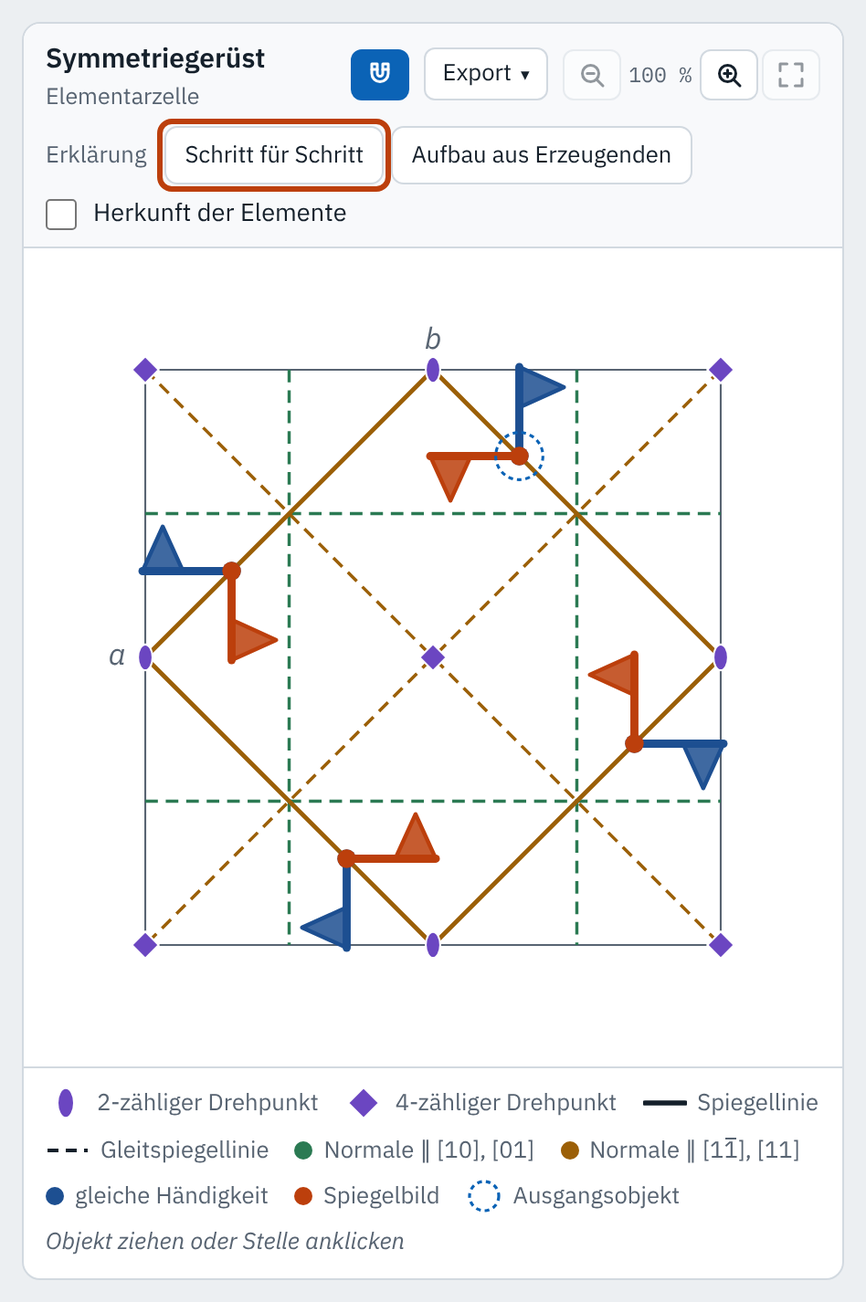
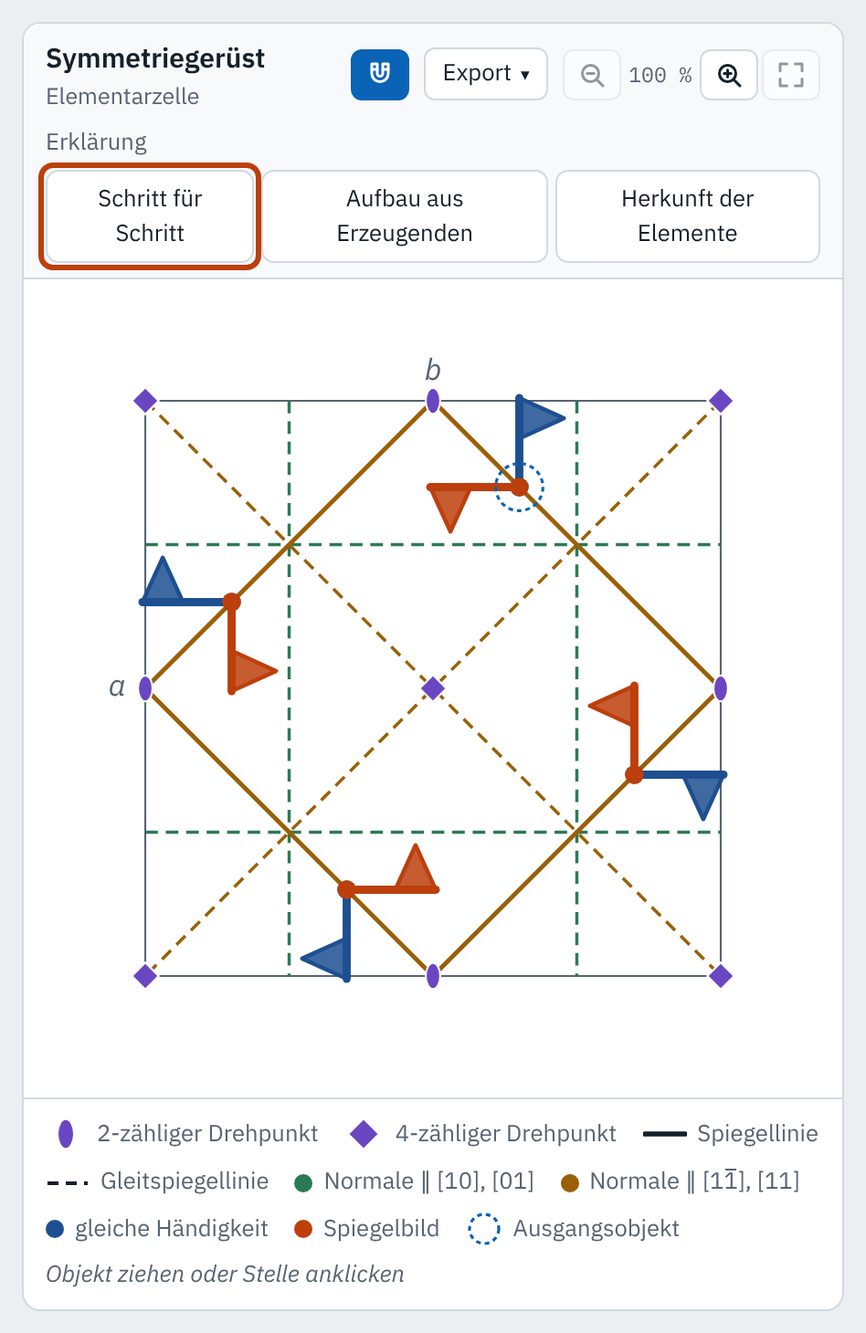
„Herkunft der Elemente“ als dritte Erklärung, immer nur eine aktiv
Drei Knöpfe im Kopf von Tafel A statt Auswahl plus Schalter (Thomas,
13.11.2026). Bei „Herkunft“ zeigt die Leiste Hinweis bzw. Element,
Abspielen und ×. Link/Speicher: zwei oder drei Erklärungen zusammen
oder erkl ohne herkunft ergeben den Startwert.

Claude-Session: https://claude.ai/code/session_01L8SY96VTcRYuEB7LDLyNSV

diff --git a/js/main.js b/js/main.js
@@ -166,9 +166,9 @@ const herkunftAktiv = () => z.herkunft && z.elemente;
 /** Grund, wenn Füllen und Zoom ruhen (erklaerend in zeichnung.js). */
 const SOLANGE_ERKLAERT = 'solange „Schritt für Schritt“, der Aufbau oder „Herkunft der Elemente“ aktiv ist';
 /**
- * Erklärungen in Tafel A (#162, Leitfaden Abschn. 5.1): Auswahl „Schritt für Schritt“ oder „Aufbau aus Erzeugenden“ und
- * der Schalter „Herkunft der Elemente“ im Kopf, die Leiste zum Durchschalten unter der Zeichnung. Eine gewählte Erklärung,
- * die gerade nicht wirken kann, bleibt gewählt und ruht; die Leiste nennt den Grund (Leitfaden Abschn. 5.2).
+ * Erklärungen in Tafel A (#162, Leitfaden Abschn. 5.1): Auswahl „Schritt für Schritt“, „Aufbau aus Erzeugenden“ oder
+ * „Herkunft der Elemente“ im Kopf, höchstens eine (Thomas, 13.11.2026), die Leiste unter der Zeichnung. Eine gewählte
+ * Erklärung, die gerade nicht wirken kann, bleibt gewählt und ruht; die Leiste nennt den Grund (Leitfaden Abschn. 5.2).
  */
 function erklaerungAbgleichen() {
   const g = gruppeVon(z.gruppe);
@@ -176,39 +176,47 @@ function erklaerungAbgleichen() {
   if (z.aufbau > maxS) z.aufbau = maxS;
   const nSchritte = g.ordnung + 1; // N Operationen der ITA-Liste, dann die Gittertranslationen
   if (z.schritt > nSchritte) z.schritt = nSchritte;
-  // „Herkunft der Elemente“ (eingeschaltet oder mit gezeigtem Element) überdeckt „Schritt für Schritt“ (schrittWirkt)
-  const schrittRuht = herkunftAktiv() || !!z.erkl;
-  const schrittGrund = !z.objekt ? 'nur mit „Objekt in allgemeiner Lage“'
-    : schrittRuht ? (herkunftAktiv() ? 'ruht, solange „Herkunft der Elemente“ eingeschaltet ist' : 'ruht, solange die Herkunft eines Elements gezeigt wird') : '';
+  const schrittGrund = !z.objekt ? 'nur mit „Objekt in allgemeiner Lage“' : '';
   const aufbauGrund = !z.elemente ? 'nur mit „Symmetrieelemente“' : maxS === 0 ? 'p1 hat ausser den Translationen keine Symmetrieelemente' : '';
-  const ks = knopf('erkl-schritt'); const ka = knopf('erkl-aufbau');
+  const herkunftGrund = !z.elemente ? 'nur mit „Symmetrieelemente“' : '';
+  const ks = knopf('erkl-schritt'); const ka = knopf('erkl-aufbau'); const kh = knopf('erkl-herkunft');
   ks.setAttribute('aria-pressed', String(z.schritt > 0));
   ka.setAttribute('aria-pressed', String(z.aufbau > 0));
+  kh.setAttribute('aria-pressed', String(z.herkunft));
   // gesperrt, solange nicht wählbar; eine gewählte bleibt frei, damit man sie abwählen kann
   ks.disabled = !z.objekt && z.schritt === 0;
   ka.disabled = aufbauGrund !== '' && z.aufbau === 0;
-  eingabe('opt-herkunft').checked = z.herkunft;
-  eingabe('opt-herkunft').disabled = !z.elemente;
+  kh.disabled = herkunftGrund !== '' && !z.herkunft;
   // Leiste: Stand der gewählten Erklärung oder der Grund, warum sie ruht
   const leiste = $('erkl-leiste');
-  const aktiv = z.modus === 'eg' && (z.schritt > 0 || z.aufbau > 0);
+  const aktiv = z.modus === 'eg' && (z.schritt > 0 || z.aufbau > 0 || z.herkunft);
   leiste.hidden = !aktiv;
   if (!aktiv) return;
   const istSchritt = z.schritt > 0;
-  const grund = istSchritt ? schrittGrund : aufbauGrund;
+  const istHerkunft = z.herkunft;
+  const grund = istHerkunft ? herkunftGrund : istSchritt ? schrittGrund : aufbauGrund;
+  const name = istHerkunft ? 'Herkunft der Elemente' : istSchritt ? 'Schritt für Schritt' : 'Aufbau aus Erzeugenden';
+  // „Herkunft der Elemente“: Hinweis bzw. das gewählte Element, Abspielen wiederholt seinen Ablauf (Wahl Thomas)
+  knopf('erkl-zurueck').hidden = istHerkunft;
+  knopf('erkl-vor').hidden = istHerkunft;
+  knopf('erkl-abspielen').hidden = !istSchritt && !istHerkunft;
   let stand;
-  if (grund) stand = `${istSchritt ? 'Schritt für Schritt' : 'Aufbau aus Erzeugenden'}: ${grund}`;
-  else if (istSchritt) {
+  if (grund) stand = `${name}: ${grund}`;
+  else if (istHerkunft) {
+    const e = z.erkl ? herkunft(g).elemente.get(z.erkl) : undefined;
+    stand = e ? `Herkunft: ${elementName(e.element)}`
+      : '<span class="only-fine">Element anklicken: woher es kommt</span><span class="only-coarse">Element antippen: woher es kommt</span>';
+  } else if (istSchritt) {
     const sd = schrittDaten(g, ausgangsstelle(z.punkt, z.zellen), z.schritt);
     const was = sd.translationen ? 'die Gittertranslationen' : sd.k === 1 ? 'die Identität' : `Operation (${opNummer(sd.bilder[sd.bilder.length - 1])})`;
     stand = `Schritt <b>${z.schritt}</b> von ${nSchritte}<span class="erkl-was">: ${was}</span>`;
   } else stand = `Schritt <b>${z.aufbau}</b> von ${maxS}<span class="erkl-was">: ${z.aufbau === 1 ? 'die Erzeugenden' : 'neue Elemente hervorgehoben'}</span>`;
   $('erkl-stand').innerHTML = stand;
+  if (istHerkunft) { knopf('erkl-abspielen').disabled = !!grund || !z.erkl; return; }
   const ende = istSchritt ? nSchritte : maxS;
   const stufe = istSchritt ? z.schritt : z.aufbau;
   knopf('erkl-zurueck').disabled = !!grund || stufe <= 1;
   knopf('erkl-vor').disabled = !!grund || stufe >= ende;
-  knopf('erkl-abspielen').hidden = !istSchritt;
   knopf('erkl-abspielen').disabled = !!grund;
 }
 
@@ -352,7 +360,10 @@ function legende(f) {
   if (erklaerend(z)) items.push(`<span class="lg hint">Füllen und Zoom ruhen, ${SOLANGE_ERKLAERT}</span>`);
   if (!z.objekt) items.push(`<span class="lg hint">Einrasten${z.schritt > 0 ? '' : ' und „Schritt für Schritt“'} nur mit „Objekt in allgemeiner Lage“</span>`);
   // Grund gesperrter Erklärungen, die nicht gewählt sind (gewählte nennen ihn in der Leiste; Leitfaden Abschn. 5.2)
-  if (!z.elemente) items.push(`<span class="lg hint">${z.aufbau > 0 ? '' : '„Aufbau aus Erzeugenden“ und '}„Herkunft der Elemente“ nur mit „Symmetrieelemente“</span>`);
+  if (!z.elemente) {
+    const gesperrt = [z.aufbau > 0 ? '' : '„Aufbau aus Erzeugenden“', z.herkunft ? '' : '„Herkunft der Elemente“'].filter(Boolean);
+    if (gesperrt.length) items.push(`<span class="lg hint">${gesperrt.join(' und ')} nur mit „Symmetrieelemente“</span>`);
+  }
   else if (herkunft(gruppeVon(z.gruppe)).maxTiefe === 0 && z.aufbau === 0) items.push('<span class="lg hint">„Aufbau aus Erzeugenden“: p1 hat ausser den Translationen keine Symmetrieelemente</span>');
   if (herkunftAktiv()) items.push(`<span class="lg hint"><span class="only-fine">Element anklicken: woher es kommt</span><span class="only-coarse">Element antippen: woher es kommt</span></span>`);
   else if (z.objekt) items.push(`<span class="lg hint"><span class="only-fine">Objekt ziehen oder Stelle anklicken</span><span class="only-coarse">Objekt ziehen oder Stelle antippen</span></span>`);
@@ -440,7 +451,7 @@ function kenndaten() {
       <div class="hm-meta"><span>Ebenengruppe Nr. ${d.nr} · ${SYSTEME[d.system].name}</span><span>International Tables, Vol. A, S. ${d.seite}${d.nr === 17 ? '–109' : ''}</span></div>
     </div>
     ${erklaerung ? `<div class="erklaerbox" id="erklaerbox">${erklaerungHTML(g, erklaerung, metrik(z.gitter[d.system]), phase)}</div>`
-    : herkunftAktiv() ? `<div class="erklaerbox" id="erklaerbox"><h3>Herkunft der Elemente</h3><p>Ein Symmetrieelement im Symmetriegerüst antippen oder hier wählen: Es erscheint, aus welchen zwei Operationen es folgt.</p>${elementListe(g)}</div>` : ''}
+    : herkunftAktiv() ? `<div class="erklaerbox" id="erklaerbox"><h3>Herkunft der Elemente</h3><p>Ein Symmetrieelement im Symmetriegerüst oder hier wählen: Es erscheint, aus welchen zwei Operationen es folgt.</p>${elementListe(g)}</div>` : ''}
     ${schrittbox}${aufbaubox}
     ${erklaerung ? '' : lagebox}
     <dl class="facts">
@@ -747,15 +758,12 @@ function init() {
     if (wahl) { z.erkl = /** @type {string} */ (wahl.dataset.erkl); stoppeSchritte(); abspielen(); }
   });
   $('opt-fuell').addEventListener('change', () => { z.aeFuell = eingabe('opt-fuell').checked; aktualisieren(); });
-  $('opt-herkunft').addEventListener('change', () => {
-    z.herkunft = eingabe('opt-herkunft').checked;
-    if (z.herkunft) stoppeSchritte();
-    if (!z.herkunft) { z.erkl = null; clearTimeout(ablauf); phase = 3; }
-    aktualisieren();
-  });
-  // Erklärungen in Tafel A (#162): Auswahl schliesst sich aus, ein zweiter Klick wählt ab
-  $('erkl-schritt').addEventListener('click', () => { stoppeSchritte(); z.schritt = z.schritt > 0 ? 0 : 1; if (z.schritt) z.aufbau = 0; aktualisieren(); });
-  $('erkl-aufbau').addEventListener('click', () => { stoppeSchritte(); z.aufbau = z.aufbau > 0 ? 0 : 1; if (z.aufbau) z.schritt = 0; aktualisieren(); });
+  // Erklärungen in Tafel A (#162): höchstens eine, ein zweiter Klick wählt ab
+  /** Alle Erklärungen aus, auch das gewählte Element und laufende Abläufe. */
+  const erklaerungenAus = () => { stoppeSchritte(); clearTimeout(ablauf); phase = 3; z.schritt = 0; z.aufbau = 0; z.herkunft = false; z.erkl = null; };
+  $('erkl-schritt').addEventListener('click', () => { const an = z.schritt === 0; erklaerungenAus(); if (an) z.schritt = 1; aktualisieren(); });
+  $('erkl-aufbau').addEventListener('click', () => { const an = z.aufbau === 0; erklaerungenAus(); if (an) z.aufbau = 1; aktualisieren(); });
+  $('erkl-herkunft').addEventListener('click', () => { const an = !z.herkunft; erklaerungenAus(); z.herkunft = an; aktualisieren(); });
   /** @param {number} d Schritt der gewählten Erklärung um d ändern */
   const erklSchritt = (d) => {
     stoppeSchritte();
@@ -765,11 +773,11 @@ function init() {
   };
   $('erkl-zurueck').addEventListener('click', () => erklSchritt(-1));
   $('erkl-vor').addEventListener('click', () => erklSchritt(1));
-  $('erkl-abspielen').addEventListener('click', schritteAbspielen);
+  $('erkl-abspielen').addEventListener('click', () => { if (z.herkunft) abspielen(); else schritteAbspielen(); });
   // ×: die Leiste verschwindet, der Fokus geht an die Auswahl der eben geschlossenen Erklärung
   $('erkl-schliessen').addEventListener('click', () => {
-    const war = z.schritt > 0 ? 'erkl-schritt' : 'erkl-aufbau';
-    stoppeSchritte(); z.schritt = 0; z.aufbau = 0; aktualisieren(); knopf(war).focus();
+    const war = z.herkunft ? 'erkl-herkunft' : z.schritt > 0 ? 'erkl-schritt' : 'erkl-aufbau';
+    erklaerungenAus(); aktualisieren(); knopf(war).focus();
   });
   zeigerEinrichten();
   zoom = zoomEinrichten({ z, ansichtA: () => (z.modus === 'eg' ? ansichtA : sUI.ansichtA()), ruht: zoomRuht, aktualisieren, svgPunkt });

diff --git a/js/hilfetexte.js b/js/hilfetexte.js
@@ -62,7 +62,7 @@ export const TIPS = {
   'zoom-b-passen': 'Zurück zur Startgrösse.',
   's-werkzeug-radieren': 'Radieren: Ziehen radiert die überfahrenen Stücke der Striche, an allen Kopien zugleich.',
   'opt-fuell': 'Asymmetrische Einheit füllen und mit allen Operationen vervielfältigen.',
-  'opt-herkunft': 'Zeigt zu einem gewählten Symmetrieelement, aus welchen zwei Operationen es folgt.',
+  'erkl-herkunft': 'Zeigt zu einem gewählten Symmetrieelement, aus welchen zwei Operationen es folgt.',
   'erkl-schritt': 'Das Objekt Operation für Operation abbilden, in der Reihenfolge der ITA.',
   'erkl-aufbau': 'Symmetrieelemente schrittweise aus den Erzeugenden aufbauen.',
   'erkl-zurueck': 'Einen Schritt zurück.',
@@ -89,7 +89,7 @@ export const SECTIONS = [
   { heading: '#sec-basis > summary', intro: 'Die Basis: Motive mit eigener Symmetrie an Lagen in der Zelle. Die Einstellungen gelten für das gewählte Motiv (im Entwurf für seine ganze Bahn), ohne Wahl für das nächste neue. Was man auf der Zeichnung tut, steht über ihr als Symbole: Werkzeuge, dann Rückgängig, Entfernen und Löschen, oben Einrasten und Zoom. Mit Zoom verschiebt Ziehen ins Leere (Pfeil), Leertaste + Ziehen oder zwei Finger den Ausschnitt. Im Entwurf zeichnet man mit dem Stift Striche: Die Gruppe macht daraus ein Muster, in der Farbe der gewählten Atomsorte; Spiegelbilder haben dieselbe Farbe.', ids: ['s-werkzeug-verschieben', 's-werkzeug-hinzufuegen', 's-werkzeug-zeichnen', 's-werkzeug-radieren', 'rueckgaengig', 's-entfernen', 'motive-loeschen', 'striche-loeschen', 'werkzeug-einrasten', 'zoom-a-ein', 'zoom-a-aus', 'zoom-a-passen', 's-motiv', 's-farbe', 's-winkel', 's-spiegel', 's-fuge', 's-groesse'] },
   { heading: '#sec-sgitter > summary', intro: 'Gitter der gegebenen Zelle; in „Gitter und Basis“ ohne Bindung an ein Kristallsystem, im Entwurf innerhalb des Kristallsystems der Gruppe (dort bleibt die Symmetrie erhalten). Die Motive behalten ihre Lage in Bruchkoordinaten und ihre Form; in „Gitter und Basis“ folgt die Symmetrie aus Gitter und Basis zusammen.', ids: ['s-ba', 's-gamma', 's-metrik'] },
   { heading: '#ctl-entwurf > h2', intro: 'Muster entwerfen: Man wählt die Gruppe, setzt Motive und zeichnet Striche; jedes erscheint mit allen Operationen der Gruppe. Gruppe und Zelle bleiben fest, die App bestimmt die Symmetrie nicht. Bei der Wahl einer anderen Gruppe bleiben Motive und Striche; ihre Bilder entstehen unter der neuen Gruppe neu. Höchstens 48 Bilder: Jede Bahn zählt mit der Zähligkeit der allgemeinen Lage; Gruppen, mit denen es mehr würden, sind gesperrt.', ids: ['e-picker', 'e-elemente', 'e-ae', 'e-bindungen'] },
-  { heading: '#ctl-gruppe > h2', intro: 'Nach der Wahl einer Gruppe erscheint links das Symmetriegerüst einer Elementarzelle, rechts ein Ausschnitt des Musters. Das Objekt lässt sich im Symmetriegerüst ziehen. Über dem Gerüst stehen die Erklärungen: „Schritt für Schritt“ wendet die Symmetrieoperationen einzeln auf das Objekt an, „Aufbau aus Erzeugenden“ zeigt, welche Elemente zwangsläufig aus wenigen Erzeugenden folgen; „Herkunft der Elemente“ zeigt zu einem Element, aus welchen Operationen es entsteht (mit dem Aufbau kombinierbar). Die Leiste unter dem Gerüst schaltet die Schritte durch.', ids: ['opt-elemente', 'opt-objekt', 'opt-ae', 'opt-zellen', 'seg-form', 'opt-orbit', 'erkl-schritt', 'erkl-aufbau', 'opt-herkunft', 'erkl-zurueck', 'erkl-vor', 'erkl-abspielen'] },
+  { heading: '#ctl-gruppe > h2', intro: 'Nach der Wahl einer Gruppe erscheint links das Symmetriegerüst einer Elementarzelle, rechts ein Ausschnitt des Musters. Das Objekt lässt sich im Symmetriegerüst ziehen. Über dem Gerüst stehen die Erklärungen: „Schritt für Schritt“ wendet die Symmetrieoperationen einzeln auf das Objekt an, „Aufbau aus Erzeugenden“ zeigt, welche Elemente zwangsläufig aus wenigen Erzeugenden folgen; „Herkunft der Elemente“ zeigt zu einem Element, aus welchen Operationen es entsteht. Es wirkt immer nur eine; die Leiste unter dem Gerüst schaltet ihre Schritte durch bzw. spielt die Herkunft eines Elements ab.', ids: ['opt-elemente', 'opt-objekt', 'opt-ae', 'opt-zellen', 'seg-form', 'opt-orbit', 'erkl-schritt', 'erkl-aufbau', 'erkl-herkunft', 'erkl-zurueck', 'erkl-vor', 'erkl-abspielen'] },
   { heading: '#sec-objekt > summary', intro: 'Lage des Ausgangsobjekts in Bruchkoordinaten. Über dem Symmetriegerüst: Einrasten (nahe einem Drehpunkt oder einer Spiegellinie springt das Objekt beim Ziehen auf das Element) und Zoom zum genauen Setzen (Mausrad, zwei Finger, + und −); verschieben mit Leertaste + Ziehen, zwei Fingern oder den Pfeiltasten. Der Zoom ruht, solange „Schritt für Schritt“, der Aufbau oder „Herkunft der Elemente“ aktiv ist.', ids: ['obj-x', 'obj-y', 'obj-groesse', 'werkzeug-einrasten', 'zoom-a-ein', 'zoom-a-aus', 'zoom-a-passen'] },
   { heading: '#sec-gitter > summary', intro: 'Die Gitterparameter dürfen sich innerhalb des Kristallsystems frei ändern; die Symmetrie bleibt dabei erhalten. Was das System festlegt, ist gesperrt (quadratisch und hexagonal b = a, γ = 90° bzw. 120°; rechteckig γ = 90°). Bei besonderen Werten (z. B. b = a) kann die Metrik zufällig höher sein; die Gruppe bleibt die gewählte.', ids: ['lat-ba', 'lat-gamma'] },
   { heading: '#sec-view > summary', intro: 'Den Zoom des Musters stellen Mausrad, zwei Finger oder −, + über dem Muster ein. „Asymmetrische Einheit füllen“ zeigt sie kräftig: Ihre Bilder füllen die Zelle ohne Lücken und Überlappungen, was in ihr gezeichnet ist, ergibt also das ganze Muster. In „Gitter und Basis“ ist es die asymmetrische Einheit der bestimmten, im Entwurf die der gewählten Gruppe.', ids: ['v-farben', 'v-muster-el', 'v-tapete', 'opt-fuell', 'zoom-b-ein', 'zoom-b-aus', 'zoom-b-passen'] },

diff --git a/js/zustand.js b/js/zustand.js
@@ -194,7 +194,7 @@ export function startzustand() {
     ausschnitt: { eg: null, struktur: null, entwurf: null }, // Mitte des Ausschnitts von Tafel A je Modus, nur im Speicher
     orbit: false, // Bilder rund um die Zelle (wie ITA), Rand ORBIT_RAND in zeichnung.js
     musterElemente: false, // Symmetrieelemente in Tafel B
-    herkunft: false, // „Herkunft der Elemente“: Antippen eines Elements zeigt, woher es kommt
+    herkunft: false, // „Herkunft der Elemente“: ein gewähltes Element zeigt, woher es kommt
     erkl: null, // gewähltes Element (Schlüssel aus herkunft.js, z. B. „m;1/4,0;0,1“)
     aufbau: 0, // Aufbau aus Erzeugenden: 0 aus, sonst Schritt 1, 2, …
     aeFuell: false, // asymmetrische Einheit gefüllt und vervielfältigt
@@ -278,9 +278,13 @@ export function zustandPruefen(z) {
   if (!(typeof z.erkl === 'string' && ERKL_MUSTER.test(z.erkl))) z.erkl = null;
   if (!Number.isInteger(z.aufbau) || z.aufbau < 0 || z.aufbau > 20) z.aufbau = s.aufbau;
   if (!Number.isInteger(z.schritt) || z.schritt < 0 || z.schritt > SCHRITT_GRENZE) z.schritt = s.schritt;
-  // „Schritt für Schritt“ und der Aufbau schliessen sich aus (eine Erklärung, Auswahl über Tafel A, #162): zusammen
-  // ungültig, beide zum Startwert (Leitfaden Abschn. 5.2)
-  if (z.schritt > 0 && z.aufbau > 0) { z.schritt = s.schritt; z.aufbau = s.aufbau; }
+  // Ein gewähltes Element gibt es nur in „Herkunft der Elemente“ (Startwert, nicht umgedeutet)
+  if (!z.herkunft) z.erkl = null;
+  // „Schritt für Schritt“, Aufbau und „Herkunft der Elemente“ schliessen sich aus (eine Erklärung, Auswahl über Tafel A,
+  // #162): zu zweit oder dritt ungültig, alle zum Startwert (Leitfaden Abschn. 5.2)
+  if (Number(z.schritt > 0) + Number(z.aufbau > 0) + Number(z.herkunft) > 1) {
+    z.schritt = s.schritt; z.aufbau = s.aufbau; z.herkunft = s.herkunft; z.erkl = s.erkl;
+  }
   z.zoomB = begrenzt(z.zoomB, ZOOM_BEREICH) ?? s.zoomB;
   z.zoomA = begrenzt(z.zoomA, ZOOM_A_BEREICH) ?? s.zoomA;
   const aus = /** @type {Record<string, unknown>} */ (z.ausschnitt && typeof z.ausschnitt === 'object' ? z.ausschnitt : {});

diff --git a/index.html b/index.html
@@ -327,8 +327,7 @@ body.verschiebt #bild-a { cursor: grabbing; }
         <div class="tools export"><button type="button" class="exportknopf" id="export-a">Export</button></div>
         <div class="leiste nur-eg erklwahl" role="group" aria-labelledby="erkl-titel">
           <span class="erkl-titel" id="erkl-titel">Erklärung</span>
-          <div class="seg seg-text"><button type="button" id="erkl-schritt" aria-pressed="false">Schritt für Schritt</button><button type="button" id="erkl-aufbau" aria-pressed="false">Aufbau aus Erzeugenden</button></div>
-          <label class="check" id="row-herkunft"><input type="checkbox" id="opt-herkunft">Herkunft der Elemente</label>
+          <div class="seg seg-text"><button type="button" id="erkl-schritt" aria-pressed="false">Schritt für Schritt</button><button type="button" id="erkl-aufbau" aria-pressed="false">Aufbau aus Erzeugenden</button><button type="button" id="erkl-herkunft" aria-pressed="false">Herkunft der Elemente</button></div>
         </div>
         <div class="leiste nur-bau">
           <div class="tools" role="group" aria-label="Werkzeug"><button type="button" class="sym" id="s-werkzeug-verschieben" aria-pressed="true" aria-label="Wählen und ziehen"><svg viewBox="0 0 24 24" aria-hidden="true"><path d="M6 3l12 7.5-5.4 1.3L9.8 18z"/></svg></button><button type="button" class="sym" id="s-werkzeug-hinzufuegen" aria-pressed="false" aria-label="Hinzufügen"><svg viewBox="0 0 24 24" aria-hidden="true"><path d="M12 5v14M5 12h14"/></svg></button><button type="button" class="sym nur-entwurf" id="s-werkzeug-zeichnen" aria-pressed="false" aria-label="Zeichnen"><svg viewBox="0 0 24 24" aria-hidden="true"><path d="M4 20l1-4.5L15.5 5a2.1 2.1 0 0 1 3 3L8 18.5z"/><path d="M13.5 7l3 3"/></svg></button><button type="button" class="sym nur-entwurf" id="s-werkzeug-radieren" aria-pressed="false" aria-label="Radieren"><svg viewBox="0 0 24 24" aria-hidden="true"><path d="M8.5 20H20"/><path d="M4.6 15.4l9.8-9.8a2 2 0 0 1 2.8 0l2.2 2.2a2 2 0 0 1 0 2.8L11 19H8z"/><path d="M9.5 10.5l4.5 4.5"/></svg></button></div>

diff --git a/skript.html b/skript.html
@@ -951,7 +951,7 @@
         </div>
         <div class="box app">
           <h4>In der App</h4>
-          <p>Über dem Symmetriegerüst den Schalter „Herkunft der Elemente“ einschalten und im Gerüst ein Symmetrieelement antippen. Die App zeigt, aus welchen zwei Operationen es folgt, die Wege des Fähnchens und die passende Regel; „Abspielen“ führt die Schritte nacheinander vor. Mit „Aufbau aus Erzeugenden“ am selben Ort entsteht das ganze Symmetriegerüst Schritt für Schritt aus den Erzeugenden der International Tables.</p>
+          <p>Über dem Symmetriegerüst „Herkunft der Elemente“ wählen und im Gerüst ein Symmetrieelement anklicken oder antippen. Die App zeigt, aus welchen zwei Operationen es folgt, die Wege des Fähnchens und die passende Regel; „Abspielen“ führt die Schritte nacheinander vor. Mit „Aufbau aus Erzeugenden“ daneben entsteht das ganze Symmetriegerüst Schritt für Schritt aus den Erzeugenden der International Tables.</p>
         </div>
       </section>
 

diff --git a/README.md b/README.md
@@ -23,10 +23,10 @@ Teil einer Familie von Lern-Apps mit gemeinsamer Grundlage: [crystallography-com
   - **Muster:** Ausschnitt des unendlichen Musters mit hervorgehobener Elementarzelle.
   - **Kenndaten wie eine ITA-Seite:** Symbole, Kristallsystem, Bravais-Gitter, Punktgruppe (mit Link in die App „Stereographische Projektion“: dort das Pedion mit Flächenmuster und Blick senkrecht auf die Fläche; das Muster zeigt genau diese Punktgruppe), Ursprung, asymmetrische Einheit, Symmetrieoperationen, Wyckoff-Lagen. Jede Wyckoff-Lage lässt sich mit „setzen“ direkt ansteuern.
   - **Gitterparameter** innerhalb des Kristallsystems frei: *b*/*a* (schiefwinklig, rechteckig), γ (schiefwinklig).
-  - **Erklärungen über dem Symmetriegerüst** (Auswahl im Kopf von Tafel A, Leiste mit ◀ ▶ unter der Zeichnung):
+  - **Erklärungen über dem Symmetriegerüst** (Auswahl im Kopf von Tafel A, immer nur eine; Leiste unter der Zeichnung):
     - **Schritt für Schritt:** Das Objekt wird mit jeder Symmetrieoperation einzeln abgebildet, in der Reihenfolge der Liste in ITA (bei zentrierten Gruppen mit (½, ½)+ als 1′, 2′, …), zuletzt mit den Gittertranslationen. Die Bilder liegen zuerst dort, wohin die Koordinaten der Liste zeigen, auch ausserhalb der Zelle; der Weg zeigt, wie die Operation wirkt. Ein Zähler nennt die verschiedenen Stellen: Auf einer speziellen Lage fallen Bilder zusammen, und am Ende bleibt die Zähligkeit der Wyckoff-Lage. In den Kenndaten ist die Zeile der aktuellen Operation markiert.
     - **Aufbau aus Erzeugenden:** Die Symmetrieelemente erscheinen Schritt für Schritt. Zuerst kommen die Erzeugenden nach ITA („Generators selected“), dann, was aus ihren Verknüpfungen mit den Gittertranslationen folgt. Neue Elemente sind hervorgehoben.
-    - **„Herkunft der Elemente“** (Schalter im Kopf von Tafel A, mit dem Aufbau kombinierbar): Ein Element wählen zeigt, aus welchen zwei Operationen es folgt (*C* = *A* ∘ *B*). Das Fähnchen läuft die Schritte ab, die passende Regel wird genannt (z. B. „Spiegelung + Translation schräg zur Linie = Gleitspiegelung“), dazu die Herleitung aus den Erzeugenden. Ist das Element nur eine Gitterkopie eines anderen (z. B. die Drehpunkte an den Ecken der Zelle), zeigt die Erklärung stattdessen das Vorbild und die Verschiebung.
+    - **„Herkunft der Elemente“:** Ein Element wählen zeigt, aus welchen zwei Operationen es folgt (*C* = *A* ∘ *B*). Das Fähnchen läuft die Schritte ab, die passende Regel wird genannt (z. B. „Spiegelung + Translation schräg zur Linie = Gleitspiegelung“), dazu die Herleitung aus den Erzeugenden. Ist das Element nur eine Gitterkopie eines anderen (z. B. die Drehpunkte an den Ecken der Zelle), zeigt die Erklärung stattdessen das Vorbild und die Verschiebung.
 
 - **Modus „Gitter und Basis“:** Eine Struktur aus Gitter (*b*/*a*, γ frei) und Basis aus Motiven mit eigener Symmetrie (Atom; ohne Eigensymmetrie Fähnchen, Blatt, Tropfen, Ranke; nur Drehsymmetrie Windräder 2, 3, 4, 6; mit Spiegelsymmetrie gleichschenkliges Dreieck m, Ziegel und längliche Insel 2mm, gleichseitiges Dreieck 3m, Quadrat 4mm, Sechseck 6mm), ausgewählt in Zeilen nach eigener Symmetrie, in vier Farben (Atomsorten). Motive lassen sich setzen, ziehen (mit Einrasten auf Zwölftel der Zelle), drehen, spiegeln (Fähnchen, Ornamente und Windräder), vergrössern und entfernen; „Rückgängig“ nimmt Änderungen an den Motiven zurück, „Alle Motive löschen“ leert die Basis. Werkzeuge und Handlungen stehen als Symbole über der Struktur, Einrasten und Zoom daneben.
   - **Symmetrie bestimmen:** Die App bestimmt die Ebenengruppe in der Standardaufstellung der ITA mit konventioneller Zelle (*a*′, *b*′) und Ursprung und zeigt darüber Symmetrieelemente und asymmetrische Einheit. Die Kenndaten nennen je Motiv Lage, Wyckoff-Lage und Lagesymmetrie und, nach einer Änderung, wie sich die Gruppe geändert hat. Ein Knopf öffnet die Gruppe im Modus „Ebenengruppen“.
@@ -103,11 +103,11 @@ Der Zustand steht lesbar in der Adresse, z. B. `#m=eg&g=p4gm&x=0.12&y=0.31`. Ges
 | `tap` | Muster als Tapete (ohne Zelle und Elemente; in „Ebenengruppen“ einfarbig; in allen Modi) | **`0`**, `1` |
 | `zoomB` | Zoom des Musters (Tafel B, in allen Modi) | 0.5–3, **1** |
 | `zoomA` | Zoom des Symmetriegerüsts bzw. der Struktur (Tafel A, in allen Modi); die Mitte des Ausschnitts steht nur im Speicher | 1–8, **1** |
-| `schritt` | Schritt für Schritt | **`0`** (aus), Operation `1` … *N* der Liste, *N* + 1 Gittertranslationen |
-| `aufbau` | Aufbau aus Erzeugenden (nicht zusammen mit `schritt`; beide zusammen ergeben den Startwert) | **`0`** (aus), Schritt `1`, `2`, … |
+| `schritt` | Schritt für Schritt (höchstens eine der drei Erklärungen `schritt`, `aufbau`, `herkunft`; zwei oder drei zusammen ergeben für alle den Startwert) | **`0`** (aus), Operation `1` … *N* der Liste, *N* + 1 Gittertranslationen |
+| `aufbau` | Aufbau aus Erzeugenden | **`0`** (aus), Schritt `1`, `2`, … |
 | `herkunft` | „Herkunft der Elemente“ | **`0`**, `1` |
 | `aet` | angetippte Bedingungen der asymmetrischen Einheit | Nummern ab `0` in der Reihenfolge der ITA-Seite, z. B. `0,2`; **leer** |
-| `erkl` | erklärtes Element | z. B. `4;1/2,1/2` (4-zähliger Drehpunkt bei ½, ½), `m;1/4,0;0,1` (Spiegellinie durch ¼, 0 in Richtung [01]), `g;…` (Gleitspiegellinie) |
+| `erkl` | erklärtes Element (nur mit `herkunft=1`) | z. B. `4;1/2,1/2` (4-zähliger Drehpunkt bei ½, ½), `m;1/4,0;0,1` (Spiegellinie durch ¼, 0 in Richtung [01]), `g;…` (Gleitspiegellinie) |
 | `ba` | *b*/*a* (nur schiefwinklig, rechteckig) | 0.5–2; **1.25** bzw. **1.35** |
 | `gamma` | γ in Grad (nur schiefwinklig) | 60–150; **105** |
 

diff --git a/CHANGELOG.md b/CHANGELOG.md
@@ -9,7 +9,7 @@ Das Format folgt [Keep a Changelog](https://keepachangelog.com/de/1.1.0/), die V
 ### Geändert
 
 - **Zoom und Verschieben statt Lupe** (#162, Leitfaden 5.1, Entscheidung Thomas, 13.11.2026): Beide Tafeln zoomen mit Mausrad, zwei Fingern oder −, + und Einpassen im Kopf der Tafel (auf dem Telefon nur mit zwei Fingern); das Symmetriegerüst bzw. die Struktur bis 8-fach. Den Ausschnitt von Tafel A verschieben Ziehen ins Leere mit „Wählen und ziehen“, zwei Finger, Leertaste + Ziehen (auch beim Zeichnen und Radieren) und die Pfeiltasten. Die Lupe und der Regler „Vergrösserung des Musters“ entfallen. **Link und Speicher:** neue Schlüssel `zoomA` und `zoomB` (vorher `lupe` und `zoom`); die Mitte des Ausschnitts steht nur im Speicher. Alte Links mit `lupe` oder `zoom` und gespeicherte Stände gelten nicht mehr (Startwert).
-- **Erklärungen in Tafel A** (#162, Leitfaden 5.1, Entscheidung Thomas, 13.11.2026): „Schritt für Schritt“ und „Aufbau aus Erzeugenden“ wählt man im Kopf des Symmetriegerüsts, daneben der Schalter „Herkunft der Elemente“; eine Leiste unter der Zeichnung schaltet die Schritte durch (◀ ▶, Abspielen, ×) und nennt den Grund, wenn die Erklärung ruht. Die Abschnitte „Schritt für Schritt“ und „Aufbau aus Erzeugenden“ der Seitenleiste entfallen, ebenso die Knöpfe im Kasten der Kenndaten; der Aufbau hat dort jetzt einen eigenen Kasten. Schritt für Schritt und Aufbau schliessen sich aus: Ein Link oder gespeicherter Stand mit beiden (`schritt` und `aufbau`) gilt nicht mehr und ergibt für beide den Startwert.
+- **Erklärungen in Tafel A** (#162, Leitfaden 5.1, Entscheidung Thomas, 13.11.2026): „Schritt für Schritt“, „Aufbau aus Erzeugenden“ und „Herkunft der Elemente“ wählt man im Kopf des Symmetriegerüsts, immer nur eine; eine Leiste unter der Zeichnung schaltet die Schritte durch (◀ ▶, Abspielen, ×) und nennt den Grund, wenn die Erklärung ruht. Die Abschnitte „Schritt für Schritt“ und „Aufbau aus Erzeugenden“ der Seitenleiste entfallen, ebenso die Knöpfe im Kasten der Kenndaten; der Aufbau hat dort jetzt einen eigenen Kasten. Die Erklärungen schliessen sich aus: Ein Link oder gespeicherter Stand mit zweien davon (`schritt`, `aufbau`, `herkunft`) gilt nicht mehr und ergibt für alle den Startwert; ein Element (`erkl`) ohne `herkunft=1` ebenso. Bei „Herkunft der Elemente“ nennt die Leiste das gewählte Element, „Abspielen“ wiederholt seine Herleitung.
 - **„In „Muster entwerfen“ weiterbearbeiten“ in den Kenndaten** (#162, Leitfaden 5.1, Entscheidung Thomas, 13.11.2026): Der Knopf steht bei der bestimmten Gruppe neben „im Modus „Ebenengruppen“ ansehen“, Grund (wenn gesperrt) oder Folge darunter; der Abschnitt „Weiterbearbeiten“ der Seitenleiste entfällt.
 - **Hinweise der Seitenleiste ins ⓘ** (#162, Leitfaden 5.2): Unter gesperrten Gitterreglern und Gruppen steht nur noch der Grund in einem Halbsatz (z. B. „γ im rechteckigen System festgelegt.“); die Erklärungen zu „Gitter“, „Asymmetrische Einheit füllen“ und zur Grenze von 48 Bildern stehen im ⓘ des Abschnitts. Einleitungen im ⓘ und Tooltips ohne „antippen“, weil das ⓘ jetzt auch mit der Maus erscheint; die Hilfeseite nennt das ⓘ neben den Tooltips.
 - **Gemeinsame Grundlage** auf crystallography-common v0.20.0: Das ⓘ an den Überschriften erscheint auf allen Geräten, auch mit der Maus (crystallography-common#140), und bricht nie allein in eine neue Zeile; mit der Maus ist seine Trefferfläche 28 px. Leitfaden 5.1 (Erklärabläufe, Zoom und Übergänge zwischen Modi gehören in die Tafel) und 5.2 (Grund unter einem gesperrten Element in einem Halbsatz); die App folgt darin mit #162.

diff --git a/CLAUDE.md b/CLAUDE.md
@@ -212,17 +212,19 @@ für diese App gilt.
   „Schritt für Schritt“, schon beim Einschalten, nicht erst mit gezeigtem Element (die Erklärung zeigt statt
   der Bilder des Objekts ihre eigenen Fähnchen, Schritte wären unsichtbar); es ruht dann, solange „Herkunft
   der Elemente“ wirkt (eingeschaltet, mit Symmetrieelementen) (Schalter, Leitfaden Abschn. 5.2; Thomas,
-  5.11.2026). Der Aufbau lässt sich mit der Herkunft kombinieren.
-- **„Herkunft der Elemente“** (5.11.2026, Thomas): ein Schalter, kein Knopf, weil er die Symmetrieelemente erklärt wie
-  der Aufbau, mit dem er sich kombinieren lässt. Zustand `herkunft`, Link `herkunft=1`, Datei `js/herkunft-text.js` (die
-  Texte; `js/herkunft.js` rechnet) und das Bedienelement `opt-herkunft` heissen wie der Schalter. Ohne Elemente ist es
+  5.11.2026). Seit 13.11.2026 schliessen sich die drei Erklärungen aus (nächste Punkte).
+- **„Herkunft der Elemente“** (5.11.2026, Thomas; seit 13.11.2026 dritte Erklärung, nächster Punkt): Zustand `herkunft`,
+  Link `herkunft=1`, Datei `js/herkunft-text.js` (die Texte; `js/herkunft.js` rechnet) und das Bedienelement
+  `erkl-herkunft` heissen wie die Erklärung. Ein gewähltes Element (`erkl`) gibt es nur mit ihr. Ohne Elemente ist sie
   gesperrt, bleibt aber gewählt.
 - **Erklärungen in Tafel A** (Thomas, 13.11.2026, #162, Leitfaden Abschn. 5.1): „Schritt für Schritt“, „Aufbau aus
   Erzeugenden“ und „Herkunft der Elemente“ sind die Hauptfunktionen von „Ebenengruppen“ und gingen als eingeklappte
-  Abschnitte der Seitenleiste unter. Jetzt im Kopf von Tafel A eine Auswahl (Schritt für Schritt *oder* Aufbau, ein zweiter
-  Klick wählt ab) und der Schalter „Herkunft der Elemente“, unter der Zeichnung eine Leiste (◀ Schritt *n* von *N* ▶,
-  Abspielen, ×). Die Kombination Schritt + Aufbau entfällt (Wahl Thomas nach Skizzen): eine Leiste, eine Auswahl; ein Link
-  oder Speicher mit beiden ergibt für beide den Startwert. Der ausführliche Text eines Schritts steht weiter in den
+  Abschnitte der Seitenleiste unter. Jetzt im Kopf von Tafel A eine Auswahl aus drei Knöpfen, höchstens einer gewählt, ein
+  zweiter Klick wählt ab; unter der Zeichnung eine Leiste (◀ Schritt *n* von *N* ▶, Abspielen, ×). Zuerst war „Herkunft“ ein
+  Schalter neben der Auswahl, mit dem Aufbau kombinierbar; Thomas fand das unlogisch (13.11.2026: „Die aktuelle Implementierung von Herkunft der Elemente macht diese Klarheit kaputt.“):
+  drei Erklärungen, immer nur eine aktiv und angezeigt. Bei „Herkunft“ zeigt die Leiste ohne Element den Hinweis, mit
+  Element dessen Namen, Abspielen wiederholt den Ablauf des Fähnchens, × schliesst (Wahl Thomas). Kombinationen entfallen:
+  ein Link oder Speicher mit zwei oder drei Erklärungen ergibt für alle den Startwert. Der ausführliche Text eines Schritts steht weiter in den
   Kenndaten (Wahl Thomas), ohne eigene Knöpfe; der Aufbau hat dort jetzt auch einen Kasten. Eine gewählte Erklärung, die
   ruht, bleibt gewählt; den Grund nennt die Leiste, bei nicht gewählten, gesperrten die Legende (Leitfaden Abschn. 5.2).
 - **Zoom und Verschieben der Tafeln** (Thomas, 13.11.2026, #162, Leitfaden Abschn. 5.1): Die Lupe hatte einen festen
